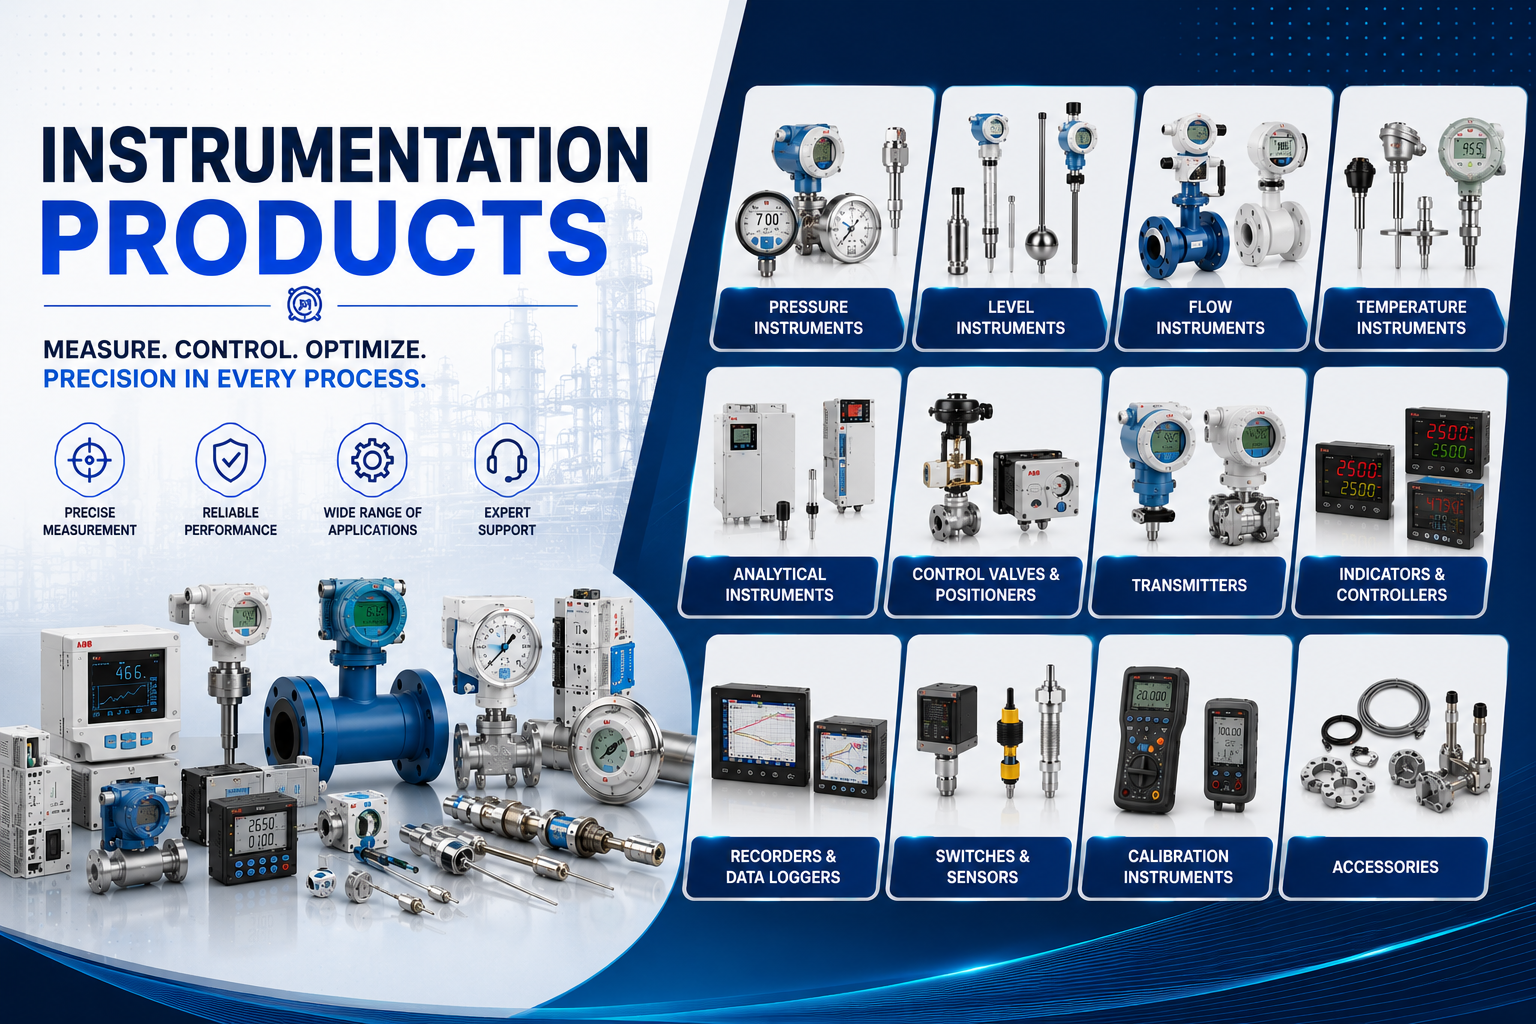
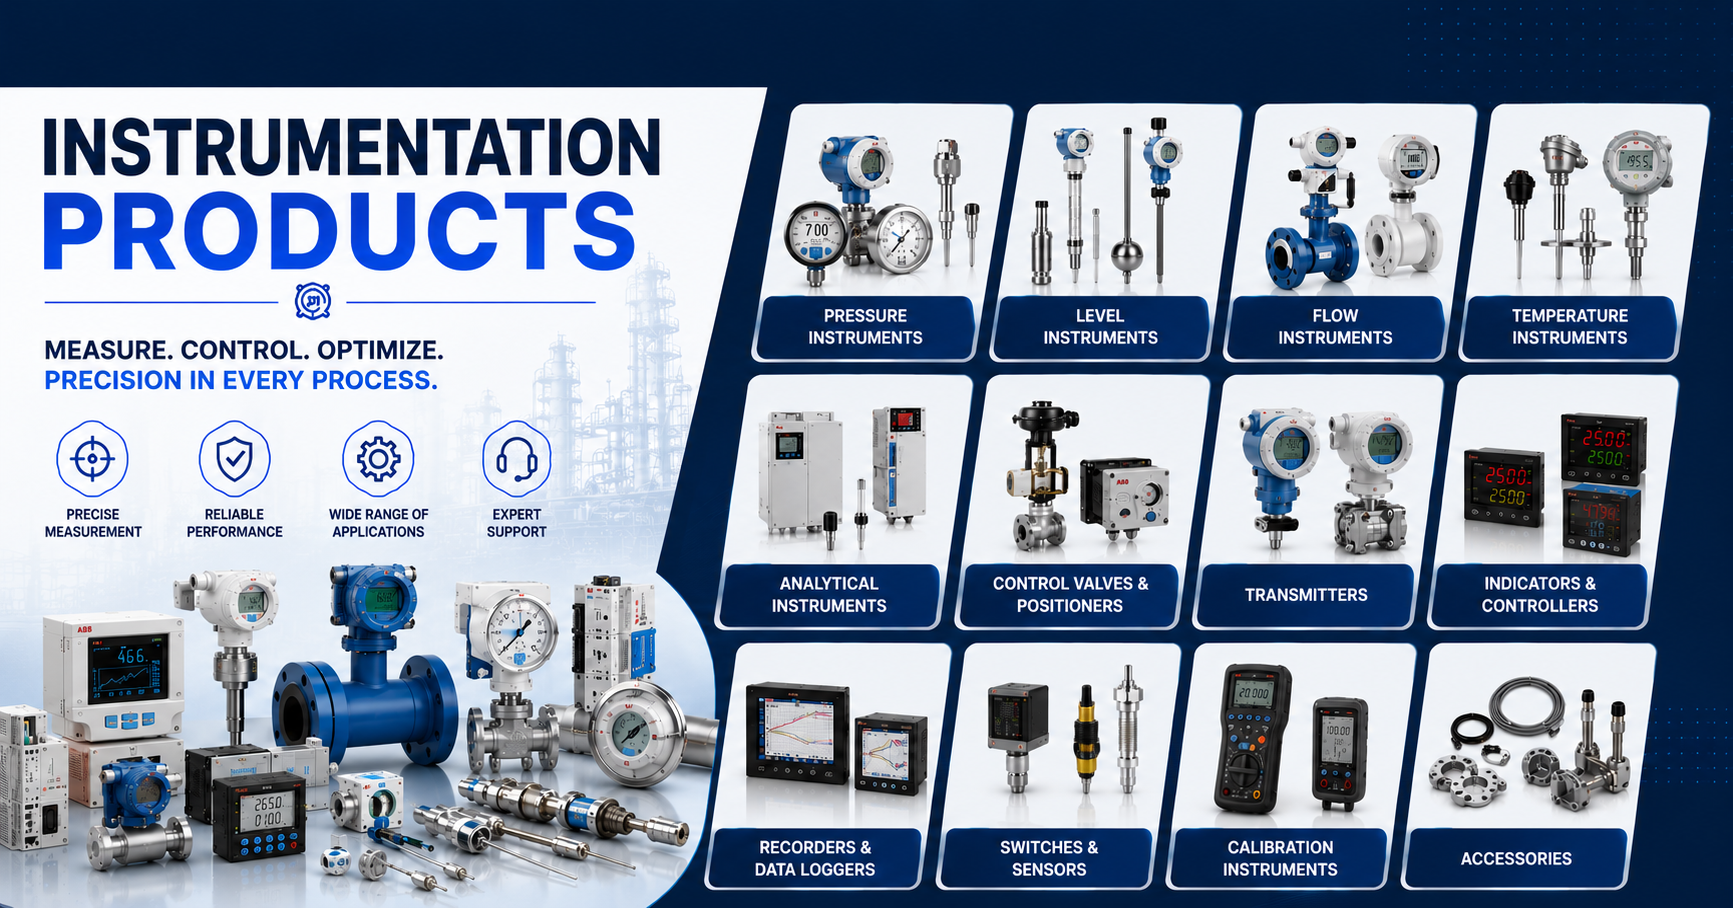
change contact page

diff --git a/src/routes/index.tsx b/src/routes/index.tsx
@@ -100,9 +100,6 @@ function Home() {
       {/* HERO SLIDER */}
       <section 
         className="relative border-b border-steel-700 overflow-hidden select-none cursor-grab active:cursor-grabbing bg-steel-950 flex items-center justify-center w-full"
-        style={{ 
-          clipPath: "polygon(0 0, 100% 0, 100% calc(100% - 35px), 50% 100%, 0 calc(100% - 35px))",
-        }}
         onMouseDown={handleMouseDown}
         onMouseMove={handleMouseMove}
         onMouseUp={handleMouseUp}
@@ -111,14 +108,14 @@ function Home() {
         onTouchMove={handleTouchMove}
         onTouchEnd={handleTouchEnd}
       >
-        <div className="w-full aspect-[16/9] md:aspect-[21/9] max-h-[580px] relative overflow-hidden">
-          <div className="absolute inset-0 flex transition-transform duration-700 ease-out" style={{ transform: `translateX(-${currentIndex * 100}%)` }}>
+        <div className="w-full relative overflow-hidden">
+          <div className="flex transition-transform duration-700 ease-out" style={{ transform: `translateX(-${currentIndex * 100}%)` }}>
             {heroImages.map((img, idx) => (
-              <div key={idx} className="w-full h-full shrink-0 relative">
+              <div key={idx} className="w-full shrink-0">
                 <img 
                   src={img.src} 
                   alt={img.alt} 
-                  className="w-full h-full object-cover object-top pointer-events-none" 
+                  className="w-full h-auto pointer-events-none" 
                 />
               </div>
             ))}

diff --git a/src/routes/contact.tsx b/src/routes/contact.tsx
@@ -208,7 +208,7 @@ function ContactPage() {
             </p>
           </div>
 
-          <div className="relative aspect-[16/9] sm:aspect-[21/9] bg-steel-900 rounded-xl overflow-hidden shadow-soft border border-steel-700 h-[400px] md:h-[500px]">
+          <div className="relative w-full aspect-[4/3] sm:aspect-[16/9] md:aspect-[21/9] bg-steel-900 rounded-xl overflow-hidden shadow-soft border border-steel-700">
             <iframe
               title="Industrial Automation Systems Map"
               src="https://maps.google.com/maps?q=28.198996,76.821281&t=&z=15&ie=UTF8&iwloc=&output=embed"

diff --git a/src/components/SiteHeader.tsx b/src/components/SiteHeader.tsx
@@ -101,7 +101,7 @@ export function SiteHeader() {
                 Industrial Automation
               </span>
               <span className="font-sans font-bold text-[8px] sm:text-[10px] md:text-xs uppercase tracking-widest text-safety leading-tight mt-0.5 md:mt-1">
-                Pvt. Ltd.
+                System Pvt. Ltd.
               </span>
             </div>
           </Link>
